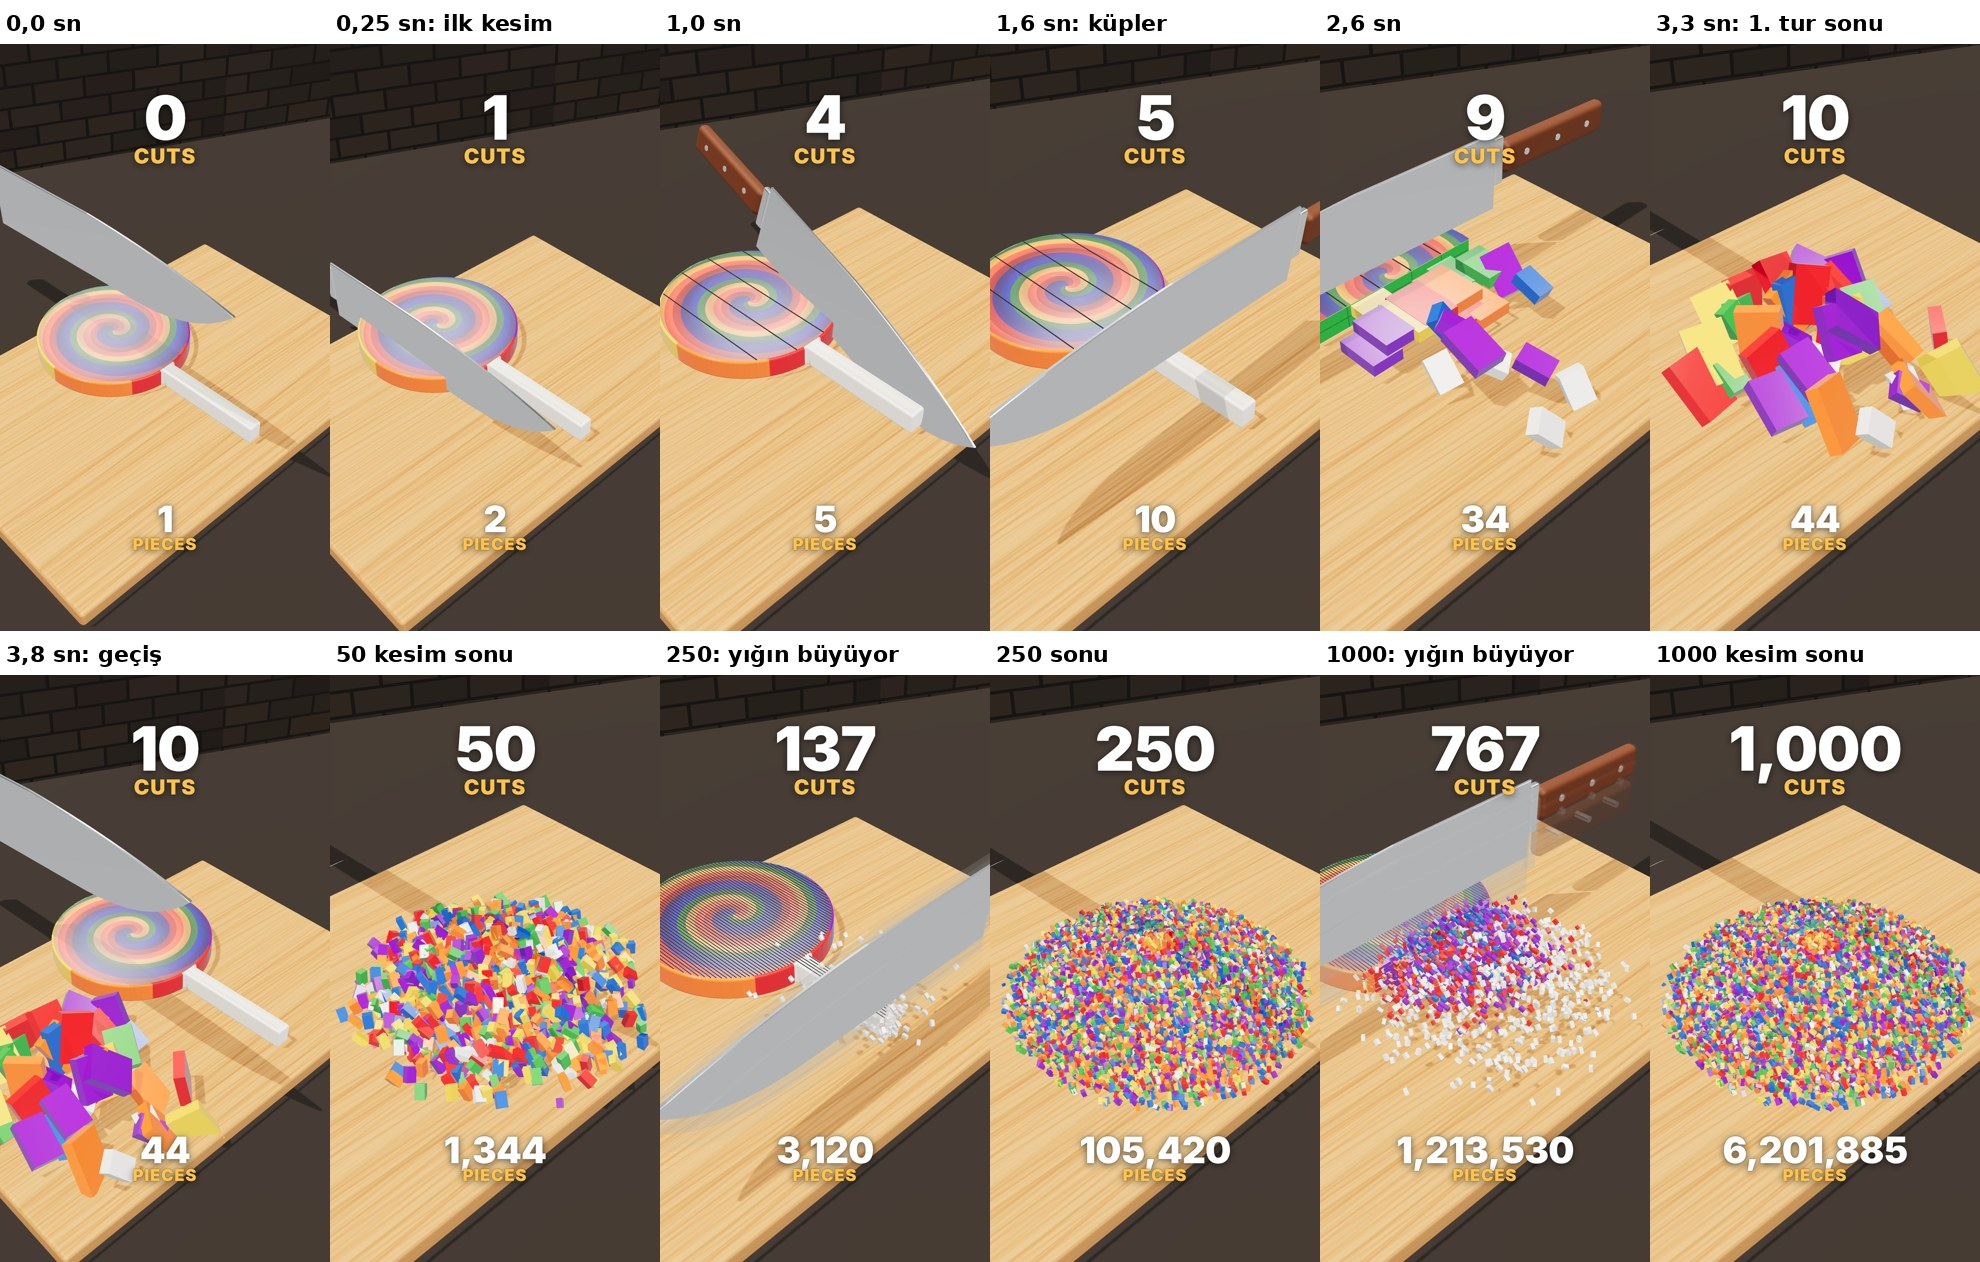
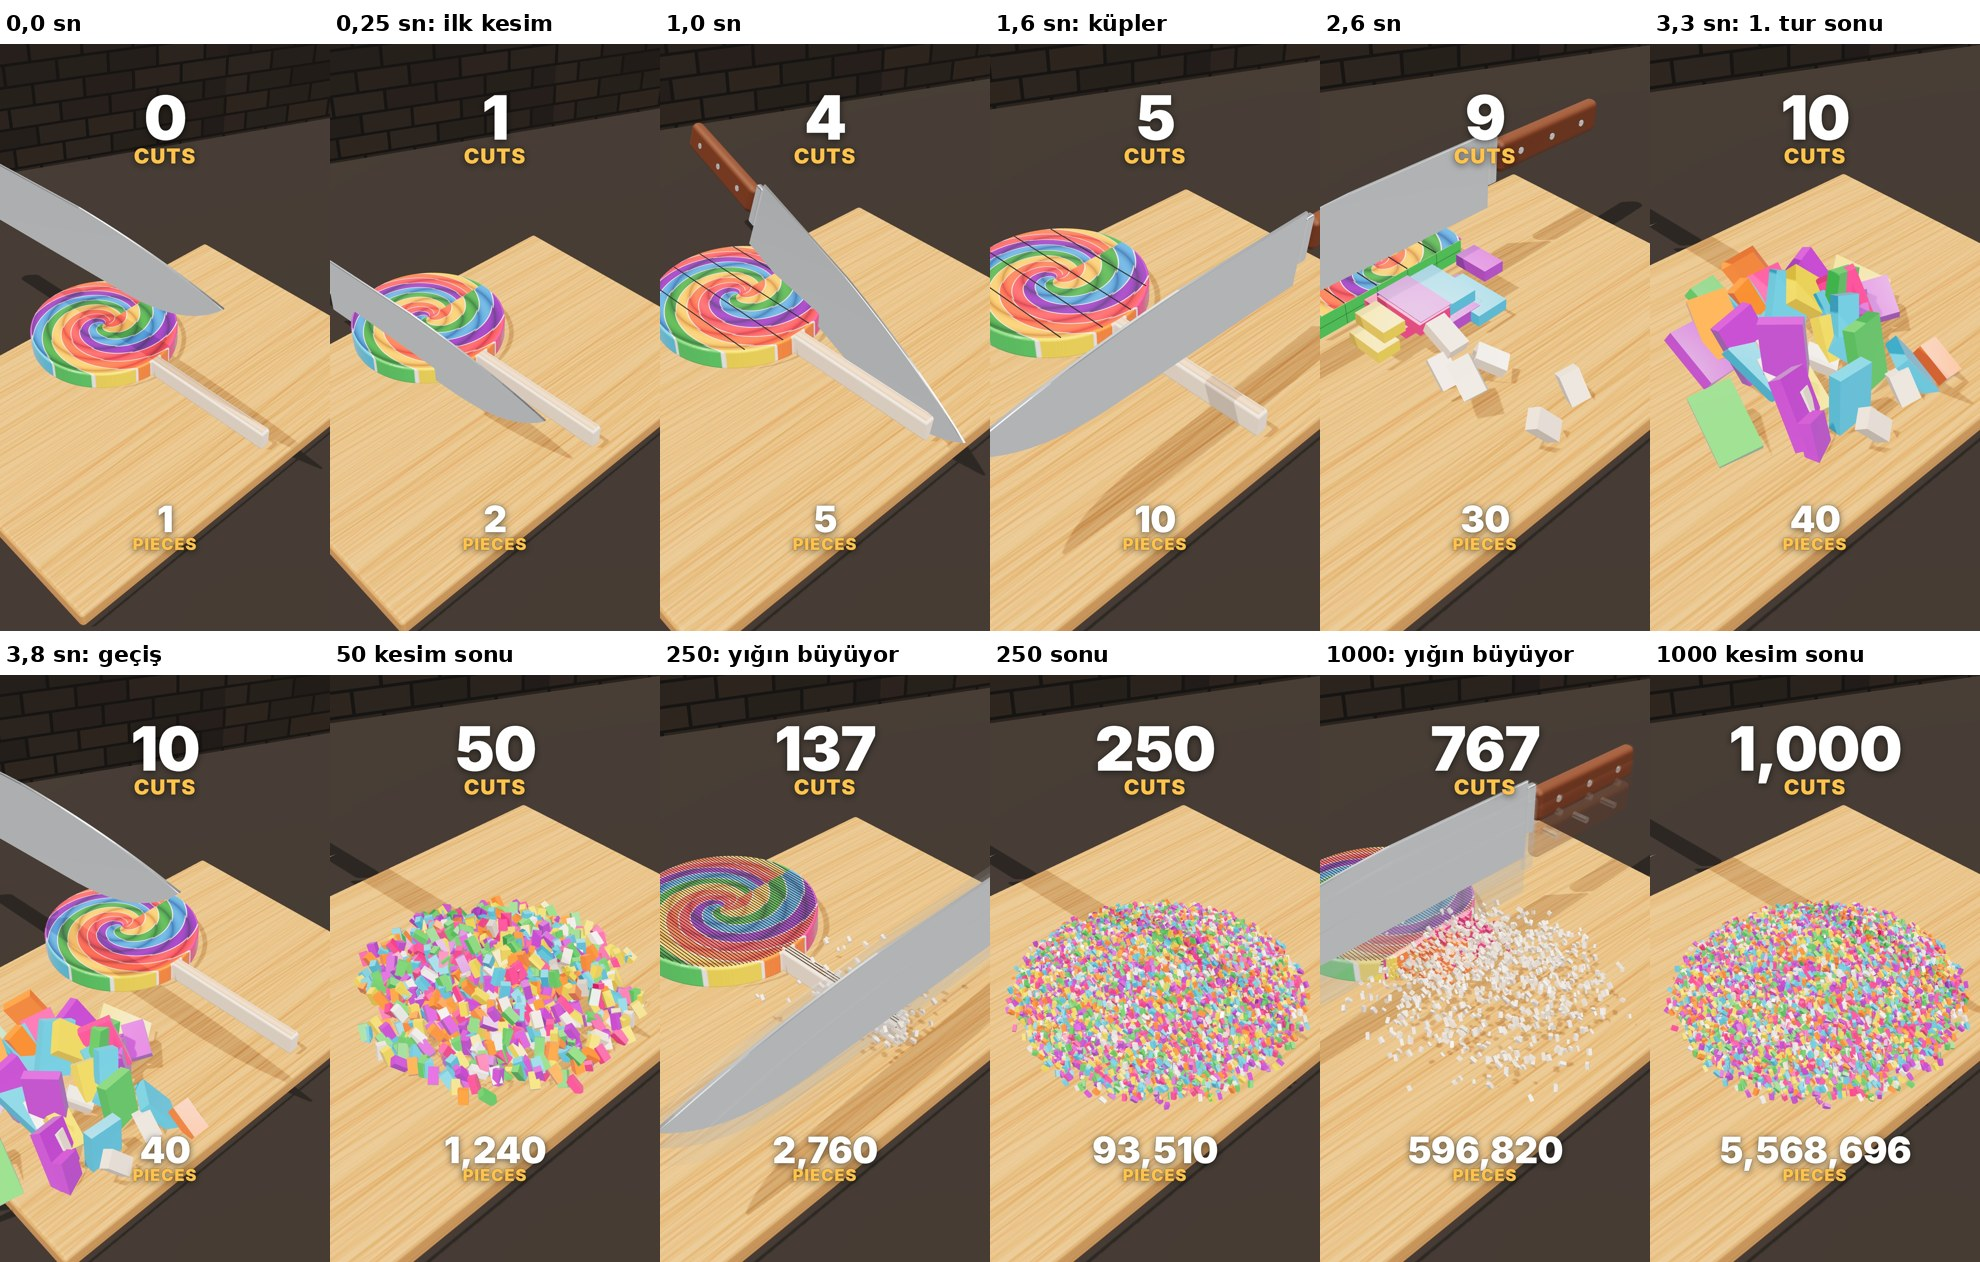
Lollipop: twisted rainbow rope swirl like the reference, thin cream stick
Claude-Session: https://claude.ai/code/session_01Ro5VQJpaLhF8Rr21k8EMLG

diff --git a/offthebooks/satisfying/lollipop.html b/offthebooks/satisfying/lollipop.html
@@ -19,7 +19,7 @@ import { RoundedBoxGeometry } from 'three/addons/geometries/RoundedBoxGeometry.j
 import { RoomEnvironment } from 'three/addons/environments/RoomEnvironment.js';
 
 const W = 1080, H = 1920, FPS = 30;
-const RX = 1.6, RY = .2, RZ = 2.75, HS = 3.6, DR = 1.6, DZC = -RZ + DR, SW = .11;   // lollipop: disc radius DR at the back, white stick toward the camera;     // RX, RZ = the heart's own extent, so every cut touches it               // heart pop-it: half width (x), half thickness (y), half length (z); lies flat on y = 0
+const RX = 1.55, RY = .2, RZ = 3.0, HS = 3.6, DR = 1.55, DZC = -RZ + DR, SW = .075;   // lollipop: disc radius DR at the back, white stick toward the camera;     // RX, RZ = the heart's own extent, so every cut touches it               // heart pop-it: half width (x), half thickness (y), half length (z); lies flat on y = 0
 const clamp = (x, a = 0, b = 1) => Math.min(b, Math.max(a, x));
 const lerp = (a, b, x) => a + (b - a) * x;
 const easeOut = x => 1 - Math.pow(1 - clamp(x), 3), easeIn = x => Math.pow(clamp(x), 3), easeInOut = x => (x = clamp(x), x < .5 ? 4 * x * x * x : 1 - Math.pow(-2 * x + 2, 3) / 2);
@@ -170,24 +170,27 @@ const EDGE = OUTLINE.map(([x, z], i) => { const [x2, z2] = OUTLINE[(i + 1) % OUT
   return { x: (x + x2) / 2 - dz / l * .03, z: (z + z2) / 2 + dx / l * .03, l, a: Math.atan2(-dz, dx) }; });
 // ---------- pop-it: rainbow silicone heart ----------
 // bands from the back (top of the heart) to the front (tip): purple, blue, teal, yellow, orange, red
-const BAND_COL = ['#d60a1a', '#ff6a00', '#ffc800', '#18a83a', '#0a5fd0', '#7a1fc0'];
-const STICK = '#f6f4ee';
-const colAt = (x, z) => {                                          // a rainbow swirl on the candy, white stick
-  const dz = z - DZC, r = Math.hypot(x, dz) / DR; if (r > 1 && Math.abs(x) < SW + .08) return STICK;
-  const k = Math.floor(((Math.atan2(dz, x) / 6.2832 + 1) * 6 + Math.min(r, 1) * 11)) % 6; return BAND_COL[k];
+const BAND_COL = ['#f0287a', '#ff6a12', '#ffc800', '#2fb84a', '#18b4e8', '#a83fc8'];
+const STICK = '#f4dcc8', PITCH = DR / 4.6;
+// a rope coiled in a spiral (r = PITCH * turns): which coil a point is on, where across it, and how far along it
+const ropeAt = (x, dz) => { const r = Math.hypot(x, dz), th = (Math.atan2(dz, x) / 6.2832 + 1) % 1, sp = r / PITCH - th, n = Math.floor(sp);
+  return { r, across: sp - n, along: n * 7 + th * (7 + 5 * Math.min(1, r / DR)) }; };   // stripes per turn grow a little toward the rim
+const colAt = (x, z) => {                                          // twisted rainbow rope: diagonal stripes with thin white lines, cream stick
+  const dz = z - DZC, q = ropeAt(x, dz); if (q.r > DR && Math.abs(x) < SW + .08) return STICK;
+  const st = q.along + q.across * 1.1, f = st - Math.floor(st);
+  return f < .06 ? '#fff4f4' : BAND_COL[((Math.floor(st) % 6) + 6) % 6];
 };
 const BUBBLES = [{ x: 0, z: -9, c: 0 }], BR = .001;
-const TOPW = 1400, TOPH = 1300;
+const TOPW = 1400, TOPH = 2700;
 const tx = x => (x + RX) / (2 * RX) * TOPW, tz = z => (RZ - z) / (2 * RZ) * TOPH;
 const TOP = canvasTex(TOPW, TOPH, (g, w, h) => {
   const img = g.createImageData(w, h), C = new THREE.Color();
   for (let y = 0; y < h; y++) for (let x = 0; x < w; x++) {
     const wx = -RX + (x + .5) / w * 2 * RX, wz = RZ - (y + .5) / h * 2 * RZ, p = (y * w + x) * 4; C.set(colAt(wx, wz));
-    const r = Math.hypot(wx, wz - DZC) / DR, sh = r <= 1 ? .82 + .12 * Math.cos(r * 22) : .9 + .1 * (1 - Math.min(1, Math.abs(wx) / SW));   // glossy ridges on the swirl
+    const q = ropeAt(wx, wz - DZC), sh = q.r <= DR ? .55 + .5 * Math.sin(Math.PI * q.across) ** .6 : .8 + .2 * Math.cos(Math.min(1, Math.abs(wx) / SW) * 1.5);   // each coil is round: dark grooves between   // glossy ridges on the swirl
     img.data[p] = 255 * C.r * sh; img.data[p + 1] = 255 * C.g * sh; img.data[p + 2] = 255 * C.b * sh; img.data[p + 3] = 255;
   }
   g.putImageData(img, 0, 0);
-  for (let i = 0; i < 260; i++) { const a = rnd() * 6.28, r = rnd() * .9; g.strokeStyle = `rgba(255,255,255,${.05 + rnd() * .08})`; g.lineWidth = 2; g.beginPath(); g.arc(tx(0), tz(DZC), r * DR / (2 * RX) * TOPW, a, a + .4); g.stroke(); }
   for (let i = 0; i < 9000; i++) { g.fillStyle = `rgba(255,255,255,${.02 + rnd() * .04})`; g.fillRect(rnd() * w, rnd() * h, 2, 2); }
 });
 TOP.repeat.set(1 / (2 * RX), 1 / (2 * RZ)); TOP.offset.set(.5, .5);
@@ -209,7 +212,7 @@ const CUBES = 36000;
 function makeSet() {
   const g = new THREE.Group(); rig.add(g);
   const clipZ = new THREE.Plane(new THREE.Vector3(0, 0, 1), 0);
-  const top = new THREE.MeshPhysicalMaterial({ map: TOP, roughness: .25, clearcoat: .8, clearcoatRoughness: .12, envMapIntensity: .3, clippingPlanes: [clipZ], clipShadows: true });
+  const top = new THREE.MeshPhysicalMaterial({ map: TOP, roughness: .4, clearcoat: .35, clearcoatRoughness: .3, envMapIntensity: .15, clippingPlanes: [clipZ], clipShadows: true });
   const side = Object.assign(rindMat(), { vertexColors: true, clippingPlanes: [clipZ], clipShadows: true });
   const whole = new THREE.Mesh(cookieGeo, [top, side]); whole.castShadow = whole.receiveShadow = true; g.add(whole);
   const bubbles = new THREE.InstancedMesh(bubbleGeo, Object.assign(rindMat(), { clippingPlanes: [clipZ], clipShadows: true }), BUBBLES.length);
